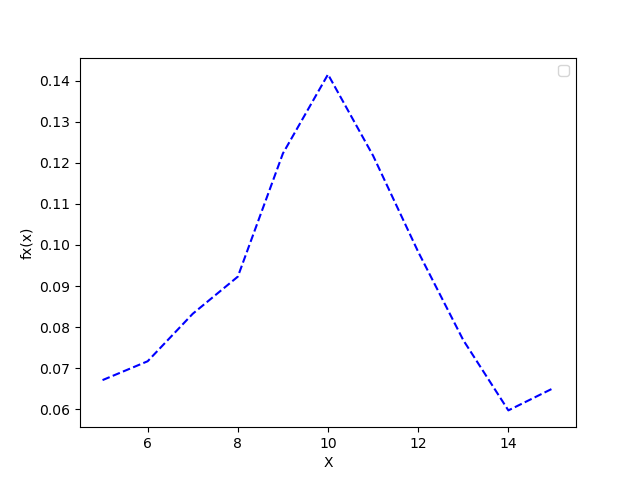
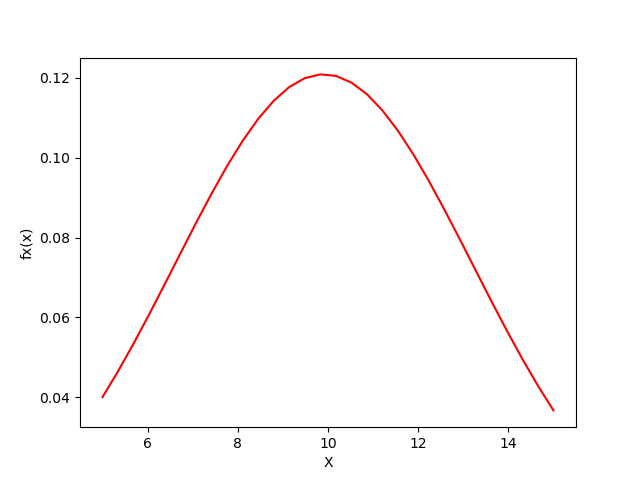
Corrección

diff --git a/B71986.py b/B71986.py
@@ -100,29 +100,21 @@ print("\niii) El coeficiente de correlación tiene un valor de: "+"{:.3f}".forma
 
 """4. Graficar las funciones de densidad marginales (2D), la función de densidad conjunta (3D)."""
 print("\n\nPunto 4. Se graficaron las funciones de densidad marginales de X y Y, y la PDF conjunta.\nSe evidenció una similitud entra esta última y la PDF conjunta encontrada en el punto 2.")
-#Se ploteó la función de densidad marginal de X de la misma forma que se había realizado en el Punto 1:
-plt.plot(range(5,16),fX, 'b--')
+#Se ploteó el modelo de la función de densidad marginal de X de la misma forma que se había realizado en el Punto 1:
+plt.plot(x_fit, Gaussiana(x_fit, param_x[0], param_x[1]), 'r-')
 plt.xlabel('X')
 plt.ylabel('fx(x)')
 plt.show()
-
-#Se ploteó la función de densidad marginal de Y de la misma forma que se había realizado en el Punto 1:
-plt.plot(range(5,26),fY, 'b--')
+#Se ploteó el modelo de la función de densidad marginal de Y de la misma forma que se había realizado en el Punto 1:
+plt.plot(y_fit, Gaussiana(y_fit, param_y[0], param_y[1]), 'r-')
 plt.xlabel('Y')
 plt.ylabel('fy(y)')
 plt.show()
 
-#Se crearon arrays de X y Y con todos los valores dados en cada combinación del archivo xyp.csv para que fueran arrays del mismo tamaño y poder graficarlos de forma adecuacuada.
-#Para esto, se eliminan las columnas que no correspondan a los valores de X, Y o P.
-xdata=np.delete(array_xyp, [1,2], 1)
-ydata=np.delete(array_xyp, [0,2], 1)
-pdata=np.delete(array_xyp, [0,1], 1)
-
-#Se utilizan los siguientes comandos para definir la gráfica en 3D, la cual se asemeja a la encontrada en el Punto 2.
-ax = plt.axes(projection='3d')
-ax.plot_wireframe(xdata, ydata, pdata, color='green', label='f_XY(x,y)')
-ax.scatter3D(xdata, ydata, pdata)
-plt.legend()
+#Se ploteó nuevamente el modelo de la función de densidad conjunta en 3D:
+ax = plt.axes(projection="3d")
+ax.plot_wireframe(X, Y, fxy_fit, color='green',label='f_XY(x,y)')
 ax.set_xlabel('X')
 ax.set_ylabel('Y')
+plt.legend()
 plt.show()

diff --git a/README.md b/README.md
@@ -21,16 +21,6 @@ R\ Al asumir independencia, se tiene que la función de densidad conjunta de X y
   <br>
   Figura 3. Vista completa de la función de densidad conjunta modelada.
 </p>  
-<p align="center">
-  <img src="Gráficas_punto_2/curva_ajuste_XY_b.png"/>
-  <br>
-  Figura 4. Vista lateral 1 de la función de densidad conjunta modelada.
-</p>  
-<p align="center">
-  <img src="Gráficas_punto_2/curva_ajuste_XY_c.png"/>
-  <br>
-  Figura 5. Vista lateral 2 de la función de densidad conjunta modelada.
-</p>  
 
 3. Hallar los valores de correlación, covarianza y coeficiente de correlación (Pearson) para los datos y explicar su significado.  
 
@@ -45,25 +35,25 @@ Como último punto, se graficaron las funciones de densidad marginales en 2D y l
 <p align="center">
   <img src="Gráficas_punto_4/fx.png"/>
   <br>
-  Figura 6. Función de densidad marginal de X.
+  Figura 4. Función de densidad marginal de X.
 </p>  
 <p align="center">
   <img src="Gráficas_punto_4/fy.png"/>
   <br>
-  Figura 7. Función de densidad marginal de Y.
+  Figura 5. Función de densidad marginal de Y.
 </p>  
 <p align="center">
-  <img src="Gráficas_punto_4/fXY_a.png"/>
+  <img src="Gráficas_punto_4/curva_ajuste_XY_a.png"/>
   <br>
-  Figura 8. Vista completa de la función de densidad conjunta.
+  Figura 6. Vista completa de la función de densidad conjunta modelada.
 </p>  
 <p align="center">
-  <img src="Gráficas_punto_4/fXY_b.png"/>
+  <img src="Gráficas_punto_4/curva_ajuste_XY_b.png"/>
   <br>
-  Figura 9. Vista lateral 1 de la función de densidad conjunta.
+  Figura 7. Vista lateral 1 de la función de densidad conjunta modelada.
 </p>  
 <p align="center">
-  <img src="Gráficas_punto_4/fXY_c.png"/>
+  <img src="Gráficas_punto_4/curva_ajuste_XY_c.png"/>
   <br>
-  Figura 10. Vista lateral 2 de la función de densidad conjunta.
+  Figura 8. Vista lateral 2 de la función de densidad conjunta modelada.
 </p>  
